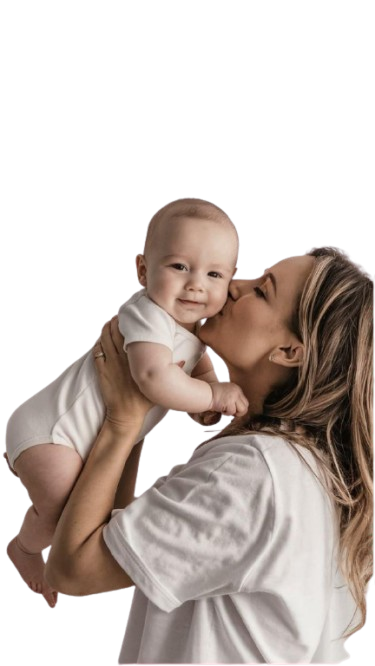
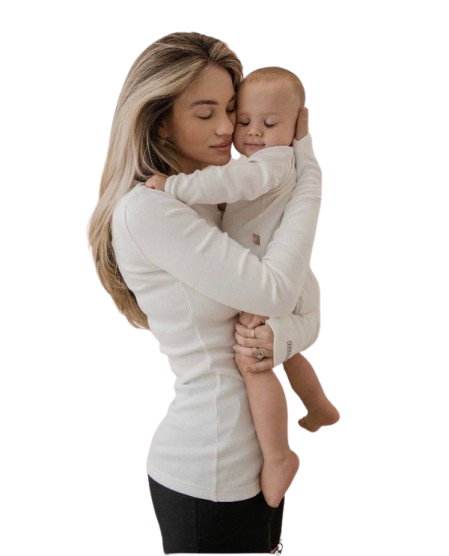
Push

diff --git a/src/components/HeroSection.tsx b/src/components/HeroSection.tsx
@@ -101,17 +101,17 @@ const Hero: FC = () => {
           {/* LEFT CONTENT: TEXT & MIDDLE IMAGE */}
           <div className="lg:col-span-8 flex flex-col md:flex-row items-end gap-0">
             <div className="md:w-3/5 space-y-6 pb-16 md:pb-28">
-              <h1 className="text-[40px] md:text-[54px] lg:text-[64px] font-black text-[#9B2B4E] leading-[1.1]">
+              <h1 className="text-[40px] md:text-[42px] lg:text-[54px] font-black text-[#9B2B4E] leading-[1.1]">
                 {t("hero.title")}
               </h1>
-              <p className="text-[#1A1A1A] text-2xl md:text-3xl font-bold leading-tight">
+              <p className="text-[#1A1A1A] text-2xl md:text-2xl font-bold leading-tight">
                 {t("hero.subtitle")}
               </p>
               
               {/* Promo Badge */}
               <div className="inline-block border-2 border-[#9B2B4E] rounded-xl overflow-hidden shadow-lg bg-white">
                 <div className="bg-[#9B2B4E] h-4 w-full"></div>
-                <div className="px-6 py-3 text-[#9B2B4E] font-black text-lg md:text-xl uppercase">
+                <div className="px-6 py-3 text-[#9B2B4E] font-black text-md md:text-xl uppercase">
                   {t("hero.badge")}
                 </div>
               </div>
@@ -130,16 +130,16 @@ const Hero: FC = () => {
           </div>
 
           {/* RIGHT CONTENT: THE FORM */}
-          <div className="lg:col-span-4 w-[450px]py-10">
-            <div className="bg-white p-8 md:p-12 rounded-[2.5rem] shadow-[0_30px_60px_-15px_rgba(0,0,0,0.2)] border border-white">
-              <h2 className="text-[#9B2B4E] font-black text-center text-3xl md:text-3xl mb-8 leading-tight uppercase">
+          <div className="lg:col-span-4 w-full py-10">
+            <div className="bg-white p-8 md:p-10 rounded-[2.5rem] shadow-[0_30px_60px_-15px_rgba(0,0,0,0.2)] border border-white">
+              <h2 className="text-[#9B2B4E] font-black text-2xl md:text-3xl mb-8 leading-tight uppercase">
                 {t("hero.bookAppointment")}
               </h2>
               
               <form ref={formRef} onSubmit={sendEmail} className="space-y-4">
                 <select 
                   name="service_type"
-                  className="w-full p-5 border border-gray-200 rounded-xl bg-gray-50 text-gray-600 font-bold focus:ring-2 focus:ring-[#9B2B4E]/20 outline-none appearance-none"
+                  className="w-full p-4 border border-gray-200 rounded-xl bg-gray-50 text-gray-600 font-bold focus:ring-2 focus:ring-[#9B2B4E]/20 outline-none appearance-none"
                   required
                 >
                   <option value="">{t("hero.selectService")}</option>
@@ -152,7 +152,7 @@ const Hero: FC = () => {
                   type="text" 
                   name="from_name"
                   placeholder={t("hero.input.name")} 
-                  className="w-full p-5 border border-gray-200 rounded-xl focus:ring-2 focus:ring-[#9B2B4E]/20 outline-none font-bold"
+                  className="w-full p-4 border border-gray-200 rounded-xl focus:ring-2 focus:ring-[#9B2B4E]/20 outline-none font-bold"
                   required 
                 />
 
@@ -160,14 +160,14 @@ const Hero: FC = () => {
                   type="email" 
                   name="from_email"
                   placeholder={t("hero.input.email")} 
-                  className="w-full p-5 border border-gray-200 rounded-xl focus:ring-2 focus:ring-[#9B2B4E]/20 outline-none font-bold"
+                  className="w-full p-4 border border-gray-200 rounded-xl focus:ring-2 focus:ring-[#9B2B4E]/20 outline-none font-bold"
                 />
 
                 <input 
                   type="tel" 
                   name="from_phone"
                   placeholder={t("hero.input.phone")} 
-                  className="w-full p-5 border border-gray-200 rounded-xl focus:ring-2 focus:ring-[#9B2B4E]/20 outline-none font-bold" 
+                  className="w-full p-4 border border-gray-200 rounded-xl focus:ring-2 focus:ring-[#9B2B4E]/20 outline-none font-bold" 
                   required 
                 />
 

diff --git a/src/components/Navbar.tsx b/src/components/Navbar.tsx
@@ -35,7 +35,7 @@ const Navbar: React.FC = () => {
           <div className="bg-white p-2 rounded-full text-[#D15B8F]">
             <Phone size={18} className="md:w-5 md:h-5" fill="currentColor" />
           </div>
-          <a href="tel:07314855000" className="text-lg md:text-md font-bold tracking-wide">
+          <a href="tel:07314855000" className="text-md md:text-sm font-bold tracking-wide">
             7314855000
           </a>
         </div>
@@ -49,7 +49,7 @@ const Navbar: React.FC = () => {
         </div>
         <a href="mailto:babygenivf@gmail.com" className="hidden lg:flex items-center gap-2 text-sm md:text-[15px] font-bold hover:opacity-80 transition">
           <Mail size={32} />
-          <span className='text-lg md:text-xl'>babygenivf@gmail.com</span>
+          <span className='text-sm md:text-md'>babygenivf@gmail.com</span>
         </a>
 
         {/* Right Side: Address, Appointment & Language */}
@@ -59,11 +59,11 @@ const Navbar: React.FC = () => {
               <MapPin size={28} className="text-[#D15B8F]" fill="none" strokeWidth={2.5} />
             </div>
             <div className="flex flex-col">
-              <span className="text-sm md:text-[16px] font-bold leading-tight">{t("header.address.line1")}</span>
-              <span className="text-xs md:text-[13px] text-white/80">{t("header.address.line2")}</span>
+              <span className="text-sm md:text-[12px] font-bold leading-tight">{t("header.address.line1")}</span>
+              <span className="text-xs md:text-[9px] text-white/80">{t("header.address.line2")}</span>
             </div>
           </div>
-          <a href="#" className="text-sm md:text-lg font-bold hover:opacity-80 transition hidden sm:block">
+          <a href="#" className="text-sm md:text-md font-bold hover:opacity-80 transition hidden sm:block">
             {t("header.bookAppointment")}
           </a>
           
@@ -97,8 +97,8 @@ const Navbar: React.FC = () => {
             />
             <div className="flex flex-col">
               <div className="flex flex-col">
-                <span className="text-md md:text-lg font-bold">{t("header.hospitalName")}</span>
-                <span className="text-xs md:text-sm text-[#D15B8F] font-semibold">{t("header.location")} | {t("header.location2")}</span>
+                <span className="text-md md:text-md font-bold">{t("header.hospitalName")}</span>
+                <span className="text-xs md:text-xs text-[#D15B8F] font-semibold">{t("header.location")} | {t("header.location2")}</span>
               </div>
               {/* <p className="sm:text-xs md:text- text-gray-600">Hospital</p> */}
             </div>
@@ -110,7 +110,7 @@ const Navbar: React.FC = () => {
               <li key={link.key} className="relative group">
                 <a 
                   href={link.href} 
-                  className={`flex items-center gap-1 text-md lg:text-xl font-bold transition duration-300 ${
+                  className={`flex items-center gap-1 text-md lg:text-md font-bold transition duration-300 ${
                     link.active ? 'text-[#D15B8F]' : 'text-gray-800 hover:text-[#D15B8F]'
                   }`}
                 >
